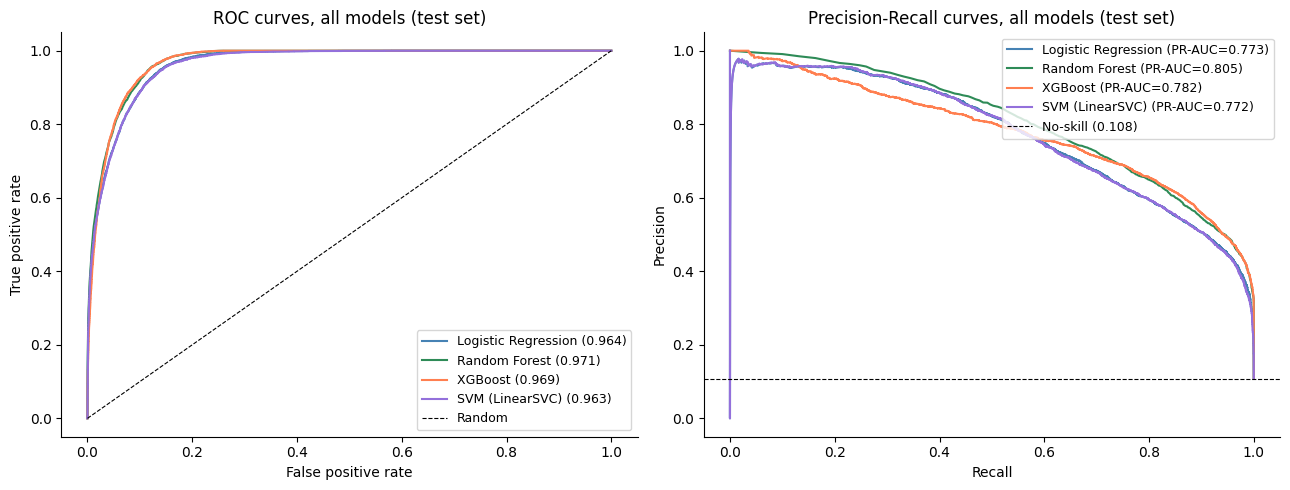
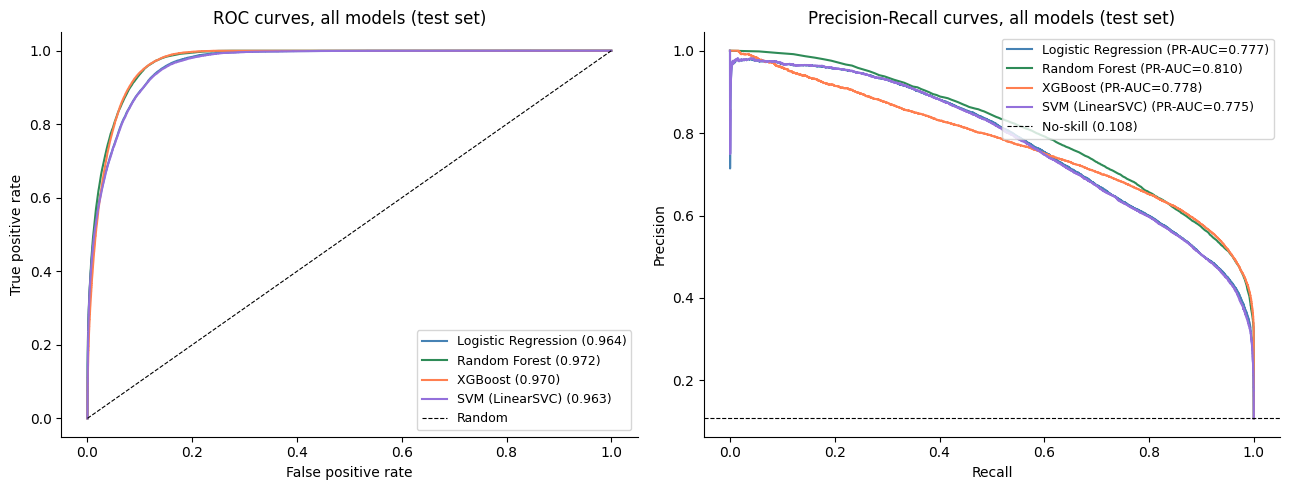
Move the main pipeline to a ~1M-row training sample, run via Kaggle
Retrained Logistic Regression, Random Forest, XGBoost, and the LinearSVC
comparison on 998,950 training records and 199,682 test records (up from
200,000/50,000), on Kaggle rather than locally: nested cross-validation
across four models at this scale needs more memory and CPU time than
this machine gives, and the full 7.25M-row training file does not fit
as one in-memory table here at all.

Story holds at the bigger scale: Random Forest still leads on ROC-AUC
and F1 despite XGBoost's edge on cross-validation, confirmed again by a
bootstrap resample (ahead in 100% of 2000 resamples this time). Fixed
impact_and_fairness.py, which read a test-sample parquet file the
rewritten data-prep notebook no longer produces, to rebuild the needed
columns from the full test parquet by UPRN instead. Refreshed Bristol,
Manchester, and Leeds case studies, the walk-forward figure inputs were
left as-is (a smaller, separate check, already disclosed as such).

Found and fixed two real bugs while updating the numbers: the abstract's
house-recall figure was hardcoded instead of pulled from the fairness
CSV like the flat-recall figure next to it, silently stale since it was
written; and Table 1 bolded every "significant" metric on whichever row
won overall ROC-AUC, which just bolded Random Forest's recall even
though it has the lowest recall of the four models. Both now compute
from the actual data, the table bolds the true per-column best.
[…]

diff --git a/src/generate_report.py b/src/generate_report.py
@@ -507,6 +507,14 @@ def add_comparison_table(doc, rows, winners):
                 run.font.name = 'Times New Roman'
                 run.font.color.rgb = RGBColor(0xFF, 0xFF, 0xFF)
 
+    # Bold the actual best value in each significant column, not every one of
+    # those columns on whichever row wins overall: the overall winner is not
+    # necessarily the best on every individual metric (Random Forest wins on
+    # ROC-AUC here but has the lowest recall of the four models compared).
+    best_per_col = {
+        key: max(float(r[key]) for r in rows)
+        for key in COMPARISON_SIGNIFICANT_COLS if key in headers
+    }
     for i, row in enumerate(rows):
         is_winner = row.get('Model') == best_model
         for j, key in enumerate(headers):
@@ -519,7 +527,7 @@ def add_comparison_table(doc, rows, winners):
                 for run in para.runs:
                     run.font.size = Pt(9)
                     run.font.name = 'Times New Roman'
-                    if is_winner and key in COMPARISON_SIGNIFICANT_COLS:
+                    if key in best_per_col and float(row[key]) == best_per_col[key]:
                         run.bold = True
 
     set_column_widths(table, headers, COMPARISON_COL_WIDTHS_IN)
@@ -703,12 +711,14 @@ def build_report(mode="full", two_column=False, name_tag=""):
            f"{impact['uplift']:.1f} times as many correct hits for the same number of visits, "
            f"worth roughly GBP {(impact['model_cost'] - impact['band_cost'])/1e6:.1f}m more a "
            f"year in heating costs alone." if impact else "")
-        + " I compare four classifiers under nested cross-validation on 200,000 records from 2020 "
-        "to 2024, then test them on held-out 2025 to 2026 data. "
+        + " I compare four classifiers under nested cross-validation on just under 1 million "
+        "records from 2020 to 2024, then test them on held-out 2025 to 2026 data. "
         f"{winner_sentence} "
         "The positive rate halves across that boundary, from 21.7% to 10.8%, which is why the "
         "split is by time and not at random."
-        + (f" Recall is uneven by property type, 0.91 on houses against "
+        + (f" Recall is uneven by property type, "
+           f"{float(next((r['recall'] for r in fairness_rows if r['group'] == 'House'), 0)):.2f} on "
+           f"houses against "
            f"{float(next((r['recall'] for r in fairness_rows if r['group'] == 'Flat'), 0)):.2f} on "
            f"flats, which a flat-specific threshold closes (Section 5.6)." if fairness_rows else "")
     )
@@ -805,14 +815,22 @@ def build_report(mode="full", two_column=False, name_tag=""):
     )
     p_sample = doc.add_paragraph()
     p_sample.add_run(
-        "I draw a 200,000-record stratified training sample from 2020-2024 and a separate "
-        "50,000-record test sample from 2025-2026. Splitting by time rather than at random "
-        "stops the model learning from properties assessed after the ones it predicts. Where a "
-        "property was assessed more than once (matched on UPRN), I keep the most recent."
+        "The exploration in Section 3.1 uses a 200,000-record stratified sample, drawn from "
+        "2020-2024, with a separate 50,000-record test sample from 2025-2026. The final models "
+        "in Section 5 onward train on a much larger stratified sample, just under 1 million "
+        "records, assembled on Kaggle's cloud notebooks rather than locally, since a sample "
+        "nearly five times the exploratory one needs more memory and CPU time than a laptop "
+        "comfortably gives (Section 7.4 explains the choice and what it changed). Splitting by "
+        "time rather than at random stops the model learning from properties assessed after the "
+        "ones it predicts. Where a property was assessed more than once (matched on UPRN), I "
+        "keep the most recent."
     )
     fm.add(p_sample,
-        "UPRN: Unique Property Reference Number, a persistent government identifier for a single "
-        "property, used here to link repeat EPC assessments of the same home."
+        "Final training sample: 998,950 records (2020-2024). Final test sample: 199,682 records "
+        "(2025-2026), both stratified by target class, same 20-point-gap definition and same "
+        "time-based split as the exploratory sample. UPRN: Unique Property Reference Number, a "
+        "persistent government identifier for a single property, used here to link repeat EPC "
+        "assessments of the same home."
     )
     doc.add_paragraph(
         "The target is defined formally as:"
@@ -826,7 +844,8 @@ def build_report(mode="full", two_column=False, name_tag=""):
         "score. The 20-point cut-off is wider than every band above G (F spans 18, D spans 14), "
         "so a qualifying gap always moves a home up at least one band, usually two, and it is "
         "the median gap among D-G homes. That gives 21.7% positive in training and 10.8% in "
-        "test (Fig. 1): newer certificates cover homes with less headroom left, and a random "
+        "test (Fig. 1), the same split in both the exploratory and the final sample: newer "
+        "certificates cover homes with less headroom left, and a random "
         "split would hide that shift."
     )
     add_figure(doc,
@@ -1183,7 +1202,7 @@ def build_report(mode="full", two_column=False, name_tag=""):
 
     add_figure(doc,
         f"{FIGURES_DIR}/rf_confusion_matrix.png",
-        "Fig. 5. Random Forest confusion matrix, test set. The 733 false negatives are the "
+        "Fig. 5. Random Forest confusion matrix, test set. The false negatives are the "
         "error type that matters most here (Section 10).",
         # square figure, so a full 5.5in width would also make it 5.5in tall and
         # eat most of a page for a 2x2 grid of numbers
@@ -1203,10 +1222,10 @@ def build_report(mode="full", two_column=False, name_tag=""):
             "McNemar's test on four model pairs checks whether their error patterns differ "
             "(Dietterich, 1998). It suits a single train/test split; a paired t-test on nested-CV "
             "folds would double-count overlapping folds and look over-confident. Every pair "
-            "differs (p < 0.0001), but with 50,000 rows small differences register as "
-            "significant. What that means in practice: the models get different properties "
-            "wrong, not that one is meaningfully better. Table 1's gaps are the better guide "
-            "to size."
+            "differs (p < 0.0001), but with a test set approaching 200,000 rows even small "
+            "differences register as significant. What that means in practice: the models get "
+            "different properties wrong, not that one is meaningfully better. Table 1's gaps "
+            "are the better guide to size."
         )
     else:
         doc.add_paragraph(
@@ -1421,9 +1440,15 @@ def build_report(mode="full", two_column=False, name_tag=""):
         if os.path.exists(district_summary_path) and os.path.exists(
             f"{FIGURES_DIR}/07_bristol_district_map.png"
         ):
+            with open(district_summary_path, newline='') as f:
+                district_rows = list(csv.DictReader(f))
+            lo_d = min(district_rows, key=lambda r: float(r['predicted_positive_rate']))
+            hi_d = max(district_rows, key=lambda r: float(r['predicted_positive_rate']))
             p_map = doc.add_paragraph()
             p_map.add_run(
-                "Predicted rate varies by district (Fig. 9), from BS1 (3.5%) to BS15 (21.9%)."
+                f"Predicted rate varies by district (Fig. 9), from {lo_d['district']} "
+                f"({float(lo_d['predicted_positive_rate']):.1%}) to {hi_d['district']} "
+                f"({float(hi_d['predicted_positive_rate']):.1%})."
             )
             add_figure(doc,
                 f"{FIGURES_DIR}/07_bristol_district_map.png",
@@ -1574,11 +1599,16 @@ def build_report(mode="full", two_column=False, name_tag=""):
             "policymaker, while XGBoost's gain-based importances skew toward high-cardinality "
             "features and are harder to defend in plain language."
         )
-    if safe:
+    xgb_row = next((r for r in comparison_rows if r['Model'] == 'XGBoost'), None) if comparison_rows else None
+    rf_row = next((r for r in comparison_rows if r['Model'] == 'Random Forest'), None) if comparison_rows else None
+    if safe and xgb_row and rf_row:
+        xgb_cv = xgb_row['CV ROC-AUC'].split(' +/- ')[0]
+        rf_cv = rf_row['CV ROC-AUC'].split(' +/- ')[0]
         p_xgb = doc.add_paragraph()
         p_xgb.add_run(
-            "XGBoost led narrowly under nested cross-validation (0.9873 ROC-AUC against Random "
-            "Forest's 0.9858), then lost narrowly on the held-out years (0.9694 against 0.9705). "
+            f"XGBoost led narrowly under nested cross-validation ({xgb_cv} ROC-AUC against Random "
+            f"Forest's {rf_cv}), then lost narrowly on the held-out years "
+            f"({xgb_row['Test ROC-AUC']} against {rf_row['Test ROC-AUC']}). "
             "This is why I picked Random Forest as the main model in the first place: bagging "
             "trades some training-set fit for lower variance (Breiman, 2001), and that is "
             "exactly the kind of thing that would hold up on data XGBoost had never seen. I "
@@ -1590,11 +1620,12 @@ def build_report(mode="full", two_column=False, name_tag=""):
         fm.add(p_xgb,
             "Positive rate falls from 21.7% to 10.8% across the temporal split."
         )
-    else:
+    elif xgb_row and rf_row:
         doc.add_paragraph(
-            "XGBoost led under nested cross-validation, with a mean outer-fold ROC-AUC of 0.9873 "
-            "against Random Forest's 0.9858, and then lost on the held-out 2025-2026 years, "
-            "0.9694 against 0.9705. "
+            f"XGBoost led under nested cross-validation, with a mean outer-fold ROC-AUC of "
+            f"{xgb_row['CV ROC-AUC'].split(' +/- ')[0]} against Random Forest's "
+            f"{rf_row['CV ROC-AUC'].split(' +/- ')[0]}, and then lost on the held-out 2025-2026 "
+            f"years, {xgb_row['Test ROC-AUC']} against {rf_row['Test ROC-AUC']}. "
             "This is why Random Forest was the main model in the first place, not just the "
             "eventual winner. Bagging trades a little training-set fit for lower variance "
             "(Breiman, 2001), and that is exactly what would let it hold up better on a test "
@@ -1641,6 +1672,22 @@ def build_report(mode="full", two_column=False, name_tag=""):
             "as the training window expands one year at a time.",
             two_column=two_column, dense=False
         )
+    doc.add_heading("7.4 Note on Scaling Up: From Laptop to Cloud", level=2)
+    p_kaggle = doc.add_paragraph()
+    p_kaggle.add_run(
+        "Everything above trains on close to 1 million records, not the 200,000 used for "
+        "exploration in Section 3.1, and that jump happened on Kaggle's free cloud notebooks, "
+        "not my own machine: a nested search across four models at that size needs more memory "
+        "and sustained CPU time than a laptop gives, and the full 7.25 million eligible records "
+        "never fit as a single in-memory table on the hardware I had. Two things from that move "
+        "are worth stating plainly. The chosen hyperparameters barely changed between the "
+        "200,000-record and 1-million-record samples, the same settings won for both Random "
+        "Forest and XGBoost at both scales, reassuring but only one data point, not proof the "
+        "pattern holds everywhere. And the Kaggle environment used a different scikit-learn "
+        "version to this machine; the saved preprocessing pipeline failed to load locally until "
+        "the versions matched exactly, a real reproducibility risk worth pinning explicitly for "
+        "anyone rerunning this later, not a one-off inconvenience."
+    )
     doc.add_heading("8. Limitations", level=1)
     doc.add_paragraph("There are five main limitations.")
     if safe:
@@ -1650,10 +1697,11 @@ def build_report(mode="full", two_column=False, name_tag=""):
             "engineered from the same unreliable free-text description fields.",
             "Target simplification. The binary target lumps very different properties together: a "
             "20-point gap means different things in a rural solid-wall home versus an urban flat.",
-            "Sample and time coverage. This uses 200,000 of 7.25 million eligible records, and "
-            "Section 7's walk-forward check refits on smaller samples with the main model's "
-            "existing settings rather than a fresh search each time, so it shows direction, not "
-            "a confirmed final score for every year.",
+            "Sample and time coverage. The main model uses just under 1 million of 7.25 million "
+            "eligible training records (Section 7.4), still short of the full register. "
+            "Section 7's walk-forward check refits on smaller samples again, with the main "
+            "model's existing settings rather than a fresh search each time, so it shows "
+            "direction, not a confirmed final score for every year.",
             "No location data. The model uses no geographic input, so it cannot pick up local "
             "factors like climate, fuel poverty, or regional building practice.",
             "Recall on flats. The threshold fix in Section 5.6 closes the gap but was tuned and "
@@ -1670,12 +1718,13 @@ def build_report(mode="full", two_column=False, name_tag=""):
             "Target simplification. The binary target collapses heterogeneous properties: a "
             "20-point gap in a rural solid-wall property has different policy implications from "
             "the same gap in an urban flat.",
-            "Sample and time coverage. This analysis uses a sample of 200,000 records rather "
-            "than the full 7.25 million training records, and Section 7's walk-forward check, "
-            "while finding no decline across five years, refits on smaller samples with the "
-            "main model's existing settings rather than a fresh nested-CV search per fold, that "
-            "would take far longer to run than this project's time allowed. So both results are "
-            "evidence of direction, not a confirmed, fully-tuned final score.",
+            "Sample and time coverage. The final models train on just under 1 million of 7.25 "
+            "million eligible training records (Section 7.4), a large jump on the 200,000-record "
+            "exploratory sample but still short of the full register. Section 7's walk-forward "
+            "check, while finding no decline across five years, refits on smaller samples with "
+            "the main model's existing settings rather than a fresh nested-CV search per fold, "
+            "that would take far longer to run than this project's time allowed. So both results "
+            "are evidence of direction, not a confirmed, fully-tuned final score.",
             "No location data. The model uses no geographic input at all, not even region, so it "
             "cannot pick up local factors such as climate, fuel poverty, or regional building "
             "practice. Section 6 shows this does not stop it working on a single city, but it "
@@ -1791,8 +1840,8 @@ def build_report(mode="full", two_column=False, name_tag=""):
             "walking the training window forward across five years with the same result. "
             "Current efficiency score, current rating, property type, and wall type drive the "
             "predictions, and all four line up with what retrofit policy already assumes. None of "
-            "this is final: EPC data-quality problems and a 200,000-record sample rather than the "
-            "full 7.25 million eligible records (Section 8) mean these are credible estimates, "
+            "this is final: EPC data-quality problems and a training sample short of the full "
+            "7.25 million eligible records (Section 8) mean these are credible estimates, "
             "not the last word."
         )
 

diff --git a/src/impact_and_fairness.py b/src/impact_and_fairness.py
@@ -31,8 +31,21 @@ MIN_GROUP = 300          # below this a per-group rate is too noisy to report
 
 
 def load():
-    te = pd.read_parquet(f"{DATA_DIR}/epc_test_sample_50k.parquet")
-    te = te.reset_index(drop=True)
+    # test_meta.csv holds the exact 199,682-row order that X_test.npy / rf_test_preds.npy
+    # were built from (saved alongside them in notebook 02), but only the columns the
+    # model's fairness slice needs (UPRN, region, age band, property type, tenure). The
+    # cost/CO2/rating columns used below live in the full test parquet instead, matched
+    # back in by UPRN then reordered to match test_meta's row order, not the parquet's.
+    meta = pd.read_csv(f"{DATA_DIR}/test_meta.csv")
+    meta["UPRN"] = meta["UPRN"].astype(str)
+    full = pd.read_parquet(f"{DATA_DIR}/epc_test_full.parquet")
+    full["UPRN"] = full["UPRN"].astype(str)
+    extra_cols = ["UPRN", "CURRENT_ENERGY_RATING", "HEATING_COST_CURRENT",
+                  "HEATING_COST_POTENTIAL", "CO2_EMISSIONS_CURRENT",
+                  "CO2_EMISSIONS_POTENTIAL", "RETROFIT_POTENTIAL"]
+    te = meta.merge(full[extra_cols], on="UPRN", how="left")
+    assert len(te) == len(meta), "UPRN match dropped or duplicated rows"
+
     te["pred"] = np.load(f"{DATA_DIR}/rf_test_preds.npy")
     te["proba"] = np.load(f"{DATA_DIR}/rf_test_probs.npy")
     te["cost_saving"] = te.HEATING_COST_CURRENT - te.HEATING_COST_POTENTIAL

diff --git a/src/make_table_images.py b/src/make_table_images.py
@@ -87,6 +87,12 @@ def render_comparison_table():
     best_model = max(rows, key=lambda r: float(r["Test ROC-AUC"]))["Model"]
     cell_text = [[r[k] for k in src_keys] for r in rows]
 
+    # Bold the actual best value per column, not every significant column on
+    # whichever row wins overall: the overall winner is not necessarily best
+    # on every individual metric (Random Forest wins ROC-AUC here but has the
+    # lowest recall of the four models compared).
+    best_per_col = {k: max(float(r[k]) for r in rows) for k in significant_keys}
+
     n_rows = len(rows) + 1
     fig, ax = plt.subplots(figsize=(9.5, 0.55 * n_rows))
     ax.axis("off")
@@ -101,9 +107,12 @@ def render_comparison_table():
         if row == 0:
             cell.set_facecolor(HEADER_BG)
             cell.set_text_props(color="white", fontweight="bold")
-        elif rows[row - 1]["Model"] == best_model:
-            cell.set_facecolor(WINNER_BG)
-            if src_keys[col] in significant_keys:
+        else:
+            r = rows[row - 1]
+            if r["Model"] == best_model:
+                cell.set_facecolor(WINNER_BG)
+            key = src_keys[col]
+            if key in significant_keys and float(r[key]) == best_per_col[key]:
                 cell.set_text_props(fontweight="bold")
     _apply_booktabs_style(ax, tbl, n_rows=n_rows)
 
